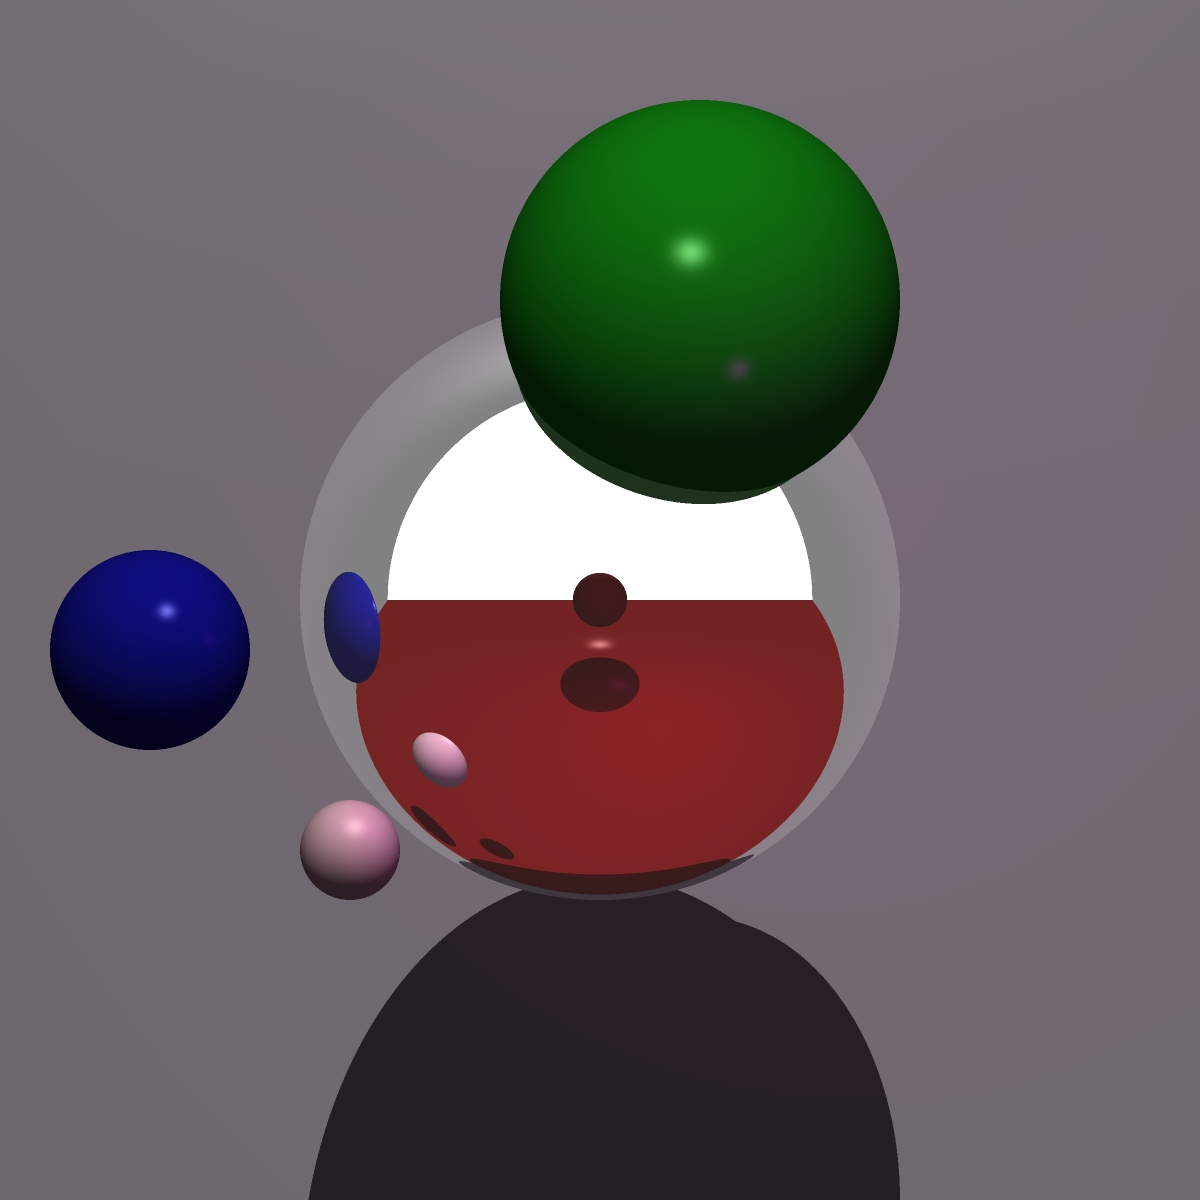
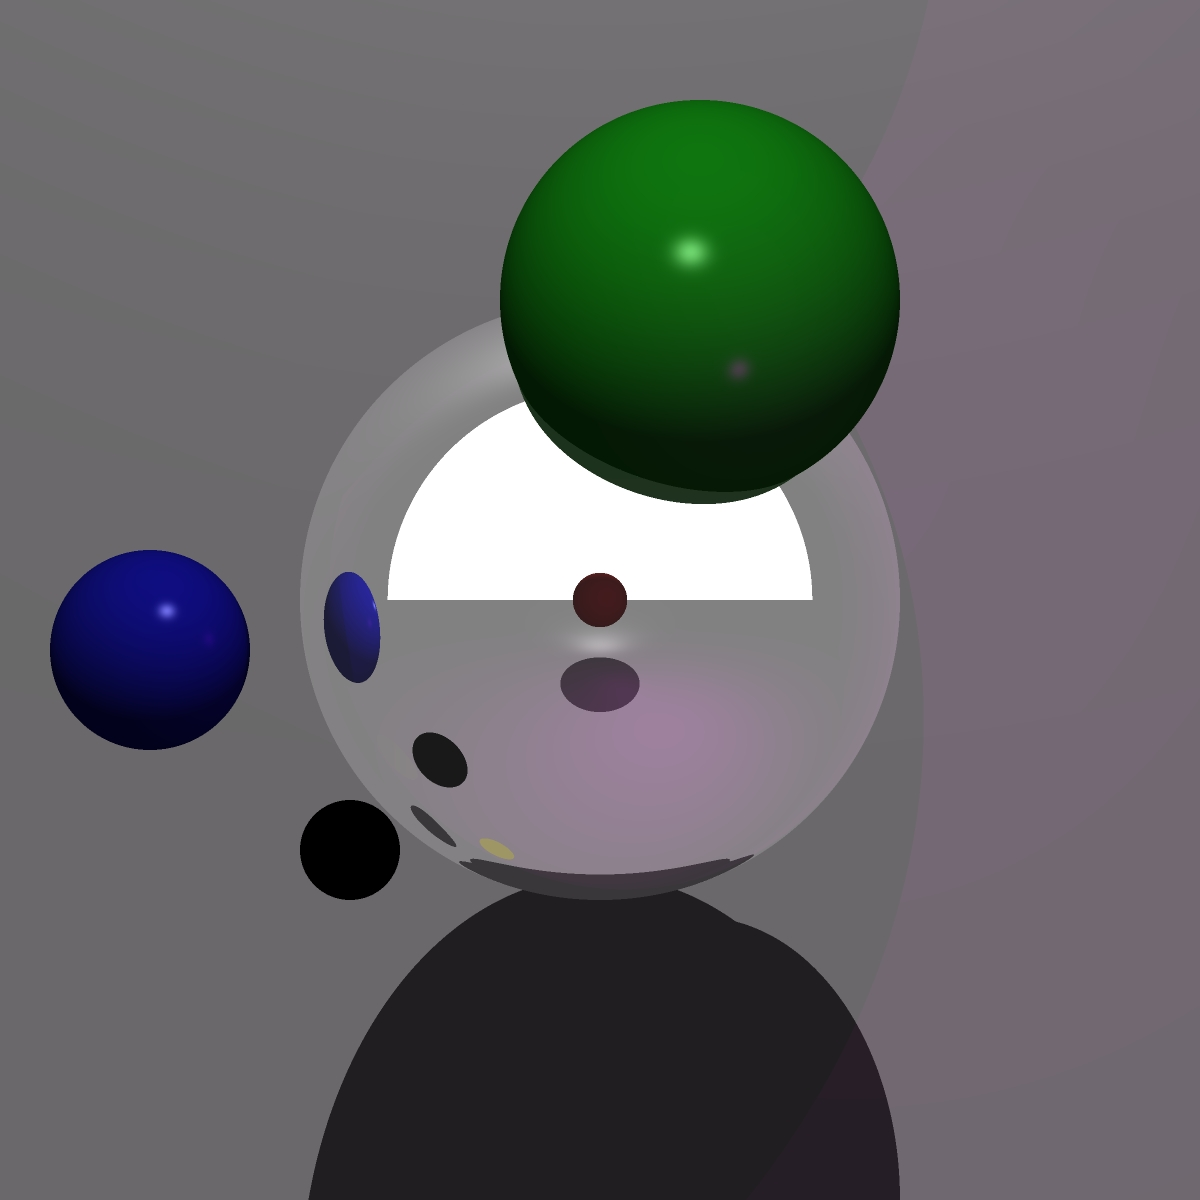
refraction draft

Changed region(s): [[0.2467, 0.4933, 0.7092, 0.7708]]

diff --git a/Src/Primitive.cpp b/Src/Primitive.cpp
@@ -80,8 +80,8 @@ Vec3f Primitive::definitiveColor(Vec3f orig, Vec3f dir, Vec3f camPos, uint8_t de
             
             break;
         case MaterialType::TRANSPARENT:
-            
-            //
+
+            return objectList[index]->transparentCalculation(fragPos, camPos, dir, depth);
 
             break;
         case MaterialType::REFLECTIVE:
@@ -97,6 +97,28 @@ Vec3f Primitive::definitiveColor(Vec3f orig, Vec3f dir, Vec3f camPos, uint8_t de
     return defaultColor;
 }
 
+Vec3f Primitive::transparentCalculation(Vec3f fragPos, Vec3f dir, Vec3f camPos, uint8_t depth) {
+
+    Vec3f normal = normalAtPoint(fragPos, dir);
+    double ri = retrieveNormalDir(normal, dir) ? 1.0 / mat.ior : mat.ior;
+    double cosTheta = std::fmin(-dir.dot(normal), 1.0);
+    double sinTheta = std::sqrt(1.0 - cosTheta * cosTheta);
+    bool canRefract = ri * sinTheta <= 1.0f;
+    double kr = 1;
+
+    Vec3f refractionDir;
+    Vec3f refractColor;
+    if (canRefract) {
+        Vec3f refractionDir = dir.refract(normal, ri);
+        Vec3f refractColor = definitiveColor(fragPos, refractionDir, camPos, --depth);
+        kr = Material::reflectance(cosTheta, ri);
+    }
+    // Vec3f reflectionDir = (dir.reflect(normal)).normalize();
+    // Vec3f reflectColor = definitiveColor(fragPos, reflectionDir, camPos, --depth);
+
+    return refractColor;//reflectColor * (float)kr + refractColor * (1 - (float)kr)  + objectList[index]->mat.ambient * objectList[index]->mat.alpha;
+}
+
 Vec3f Primitive::diffuseCalculation(Vec3f fragPos, Vec3f camPos, double distance) {    
     //test shadow or light
     Vec3f finalColor = Vec3f{0, 0, 0};
@@ -104,9 +126,9 @@ Vec3f Primitive::diffuseCalculation(Vec3f fragPos, Vec3f camPos, double distance
         double temp;
         const Light currentLight = *Light::lightList[i];
         float attenuation = 1.0f;
-        bool obstacle = false;
         Vec3f lightColor = currentLight.color;
         Vec3f lightDir;
+        float shadowAlpha = 0;
 
         if (currentLight.type == LightType::POINT) {
             Vec3f ray = currentLight.pos - fragPos;
@@ -114,9 +136,19 @@ Vec3f Primitive::diffuseCalculation(Vec3f fragPos, Vec3f camPos, double distance
             attenuation = 1.0f / (currentLight.constant + currentLight.linear * distance + currentLight.quadratic * (distance * distance));
             for (size_t u = 0; u < objectList.size(); u ++) {
                 temp = objectList[u]->raytrace(fragPos, ray.normalize());
-                if (temp != -1 && abs(temp - distance) < offset) {
-                    obstacle = true;
-                    break;
+                if (temp != -1 && (temp - distance) < offset) {
+                    if (objectList[u]->mat.type == MaterialType::TRANSPARENT) {
+                        shadowAlpha += objectList[u]->mat.alpha;
+                        if (shadowAlpha >= 1) {
+                            shadowAlpha = 1;
+                            break;
+                        }
+                        lightColor = lightColor + ((Vec3f)objectList[u]->mat.ambient * objectList[u]->mat.alpha);
+                    }
+                    else {
+                        shadowAlpha = 1;
+                        break;
+                    }
                 }
             }
             lightDir = ray.normalize();
@@ -126,18 +158,24 @@ Vec3f Primitive::diffuseCalculation(Vec3f fragPos, Vec3f camPos, double distance
             for (size_t u = 0; u < objectList.size(); u ++) {
                 temp = objectList[u]->raytrace(fragPos, lightDir);
                 if (temp != -1) {
-                    obstacle = true;
-                    break;
+                    if (objectList[u]->mat.type == MaterialType::TRANSPARENT) {
+                        shadowAlpha += objectList[u]->mat.alpha;
+                        if (shadowAlpha >= 1) {
+                            shadowAlpha = 1;
+                            break;
+                        }
+                        lightColor = lightColor + ((Vec3f)objectList[u]->mat.ambient * objectList[u]->mat.alpha);
+                    }
+                    else {
+                        shadowAlpha = 1;
+                        break;
+                    }
                 }
             }
         }
-        if (obstacle) {
-            finalColor = finalColor + lightColor * (Vec3f)mat.ambient * attenuation;
-            continue;
-        }
 
         //final color
-        finalColor = finalColor + phongColor(fragPos, lightColor, lightDir, camPos, attenuation);
+        finalColor = finalColor + phongColor(fragPos, lightColor, lightDir, camPos, attenuation) * (1 - shadowAlpha) + lightColor * (Vec3f)mat.ambient * shadowAlpha * attenuation;
     }
 
     return finalColor;

diff --git a/Src/main.cpp b/Src/main.cpp
@@ -60,12 +60,10 @@ int main(int argc, char* argv [])
         };
         Circle c3(Vec3f{-450, -50, 1420}, 100, Mc3);
         
-        Material Mc4 {
-            Color::colorFromFloat(0.25, 0.20725, 0.20725),
-            Color::colorFromFloat(1, 0.829, 0.829),
-            Color::colorFromFloat(0.296648, 0.296648, 0.296648),
-            0.088
-        };
+        Material Mc4 {Color::colorFromFloat(1, 1, 0)};
+        Mc4.alpha = 0.5f;
+        Mc4.ior = 1;
+        Mc4.type = MaterialType::TRANSPARENT;
         Circle c4(Vec3f{-250, -250, 1320}, 50, Mc4);
         Material Mc5 {
             Color::colorFromFloat(0.20725, 0.20725, 0.20725),
@@ -73,7 +71,7 @@ int main(int argc, char* argv [])
             Color::colorFromFloat(0.296648, 0.296648, 0.296648),
             0.088
         };
-        Plane p1(Vec3f{0, -600, 0}, Vec3f{0, 1, 0}, Mc0);
+        Plane p1(Vec3f{0, -600, 0}, Vec3f{0, 1, 0}, Mc5);
         //Plane p2(Vec3f{600, 0, 0}, Vec3f{-1, 0, 0}, Mc2);
 //        Plane p3(Vec3f{0, 600, 0}, Vec3f{0, -1, 0}, Mc1);
         //Plane p4(Vec3f{-600, 0, 0}, Vec3f{1, 0, 0}, Mc2);

diff --git a/Src/Utils.hpp b/Src/Utils.hpp
@@ -63,9 +63,9 @@ struct Vec3 {
     };
 
     Vec3<t> refract(const Vec3<t> v, double etaiOverEtao) const {
-        float cosTheta = std::min(-*this.dot(v), 1.0f);
-        Vec3<t> rOutPerp = etaiOverEtao * (*this + v * cosTheta);
-        Vec3<t> rOutPara = - std::sqrt(std::fabs(1.0 - rOutPerp.norm2())) * v;
+        float cosTheta = std::min(-(*this).dot(v), 1.0f);
+        Vec3<t> rOutPerp = (*this + v * cosTheta) * (float)etaiOverEtao;
+        Vec3<t> rOutPara = v * - (float)std::sqrt(std::abs(1.0 - rOutPerp.norm2()));
         return rOutPerp + rOutPara;
     };
     

diff --git a/Src/Primitive.hpp b/Src/Primitive.hpp
@@ -15,6 +15,7 @@ class Primitive {
 
     protected:
         static Vec3f definitiveColor(Vec3f orig, Vec3f dir, Vec3f camPos, uint8_t depth = 5);
+        Vec3f transparentCalculation(Vec3f fragPos, Vec3f dir, Vec3f camPos, uint8_t depth);
         Vec3f diffuseCalculation(Vec3f fragPos, Vec3f camPos, double distance);
         Vec3f phongColor(Vec3f fragPos, Vec3f lightColor, Vec3f lightDir, Vec3f camPos, float attenuation);
         bool retrieveNormalDir(Vec3f normal, Vec3f rayDir) const;
